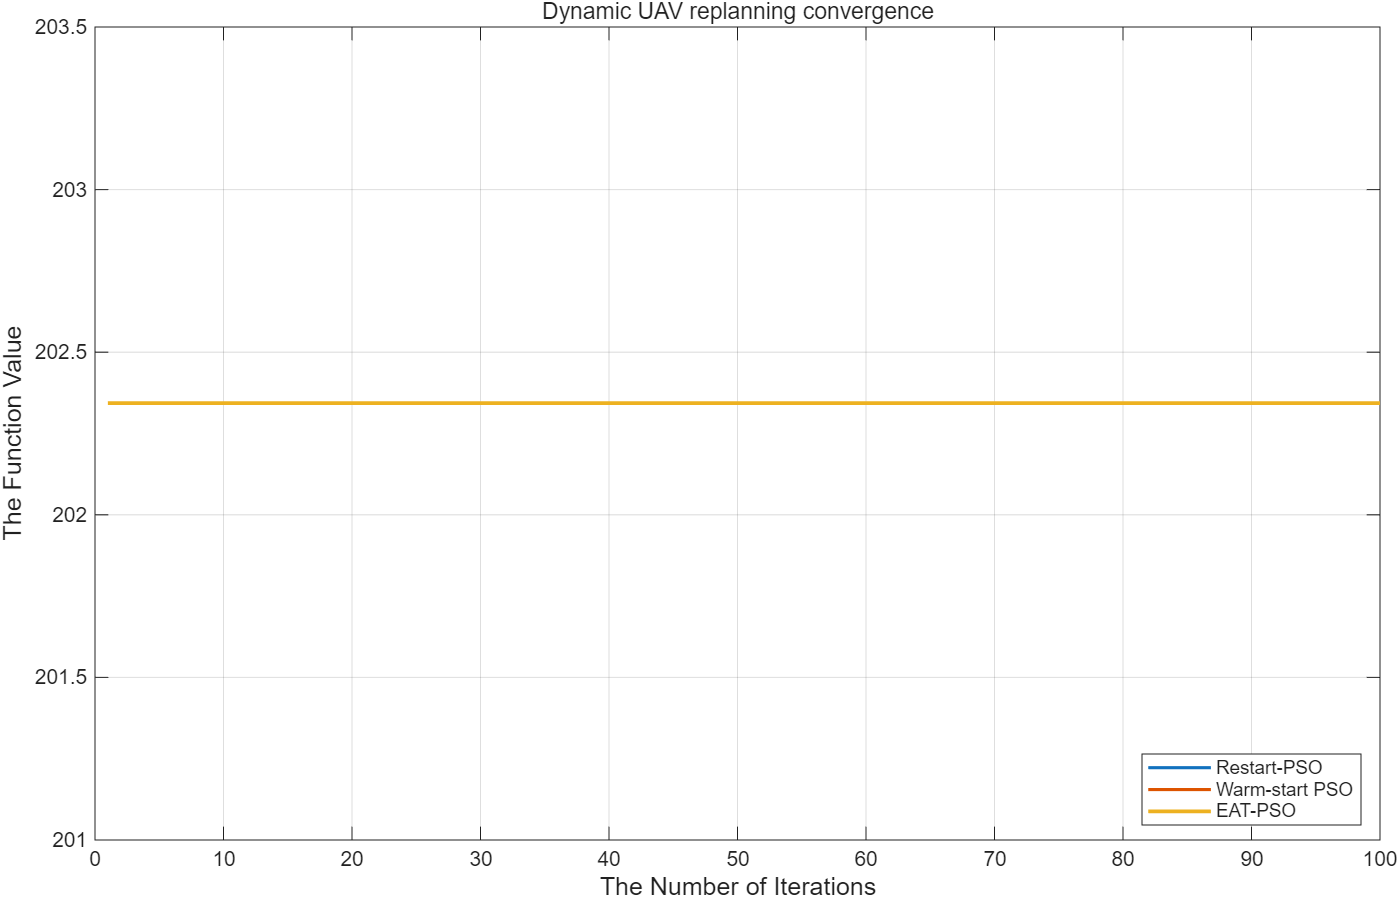
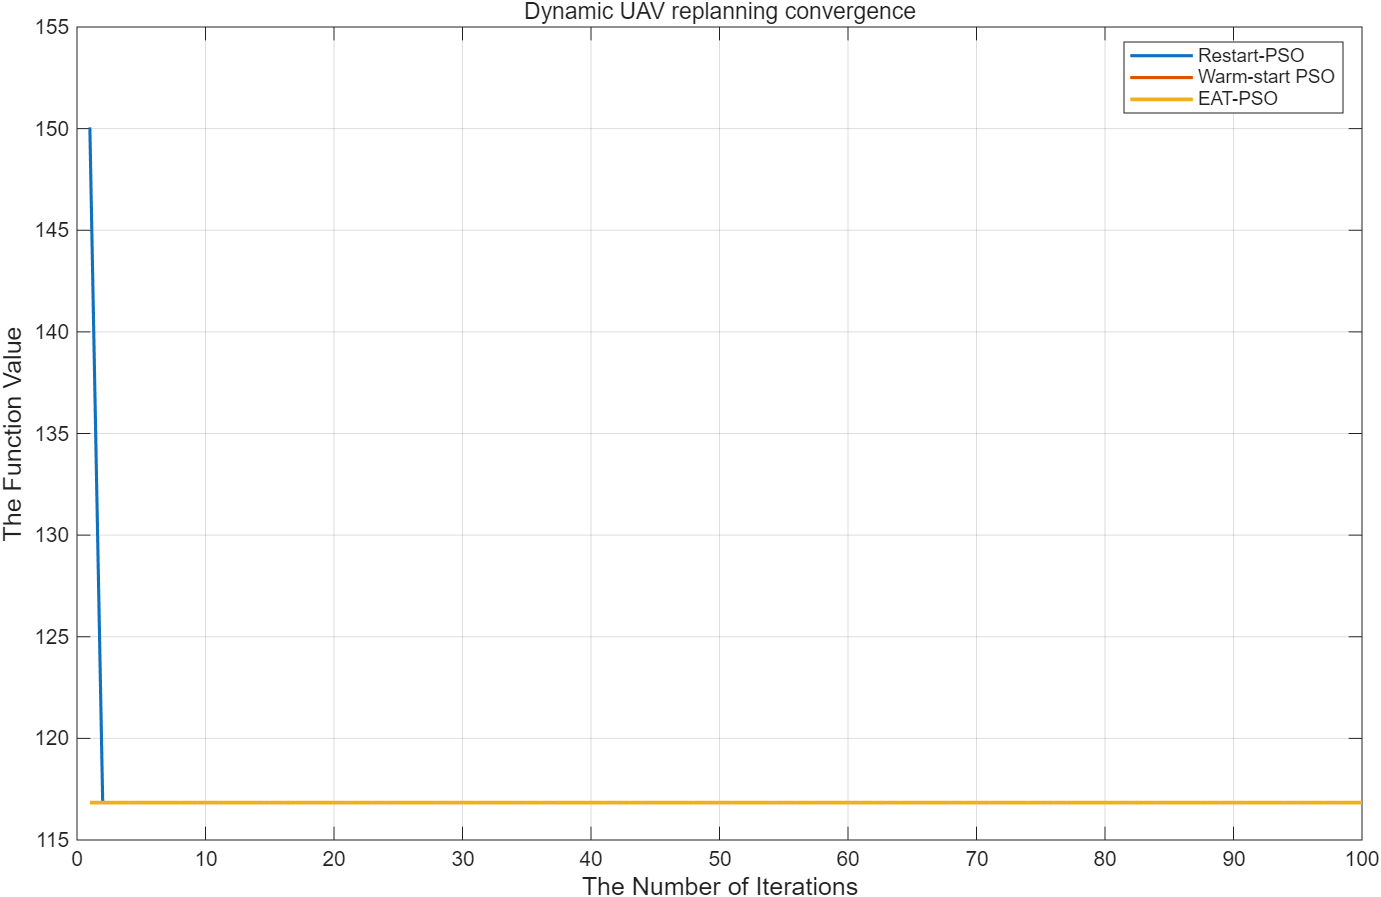
Add cylindrical obstacle path planning

diff --git a/Fitness.m b/Fitness.m
@@ -1,5 +1,5 @@
 function [cost,detail] = Fitness(position,model,state)
-%FITNESS Evaluate a route in the 3-D terrain with time windows.
+%FITNESS Evaluate a complete UAV route.
 
 [~,order] = sort(position);
 route = state.activeIDs(order);
@@ -16,75 +16,51 @@ terrainViolation = 0;
 obstacleViolation = 0;
 allPoints = current;
 records = zeros(length(route),5);
+paths = cell(length(route)+1,1);
 
 for k = 1:length(route)
     id = route(k);
     target = model.orders(id).xyz;
-    [distance,terrainV,obstacleV,points] = LegCost(current,target,model);
-    travelTime = distance/model.speed;
+    path = Plan3DPath(current,target,model);
+    travelTime = path.distance/model.speed;
     arrival = currentTime + travelTime;
     wait = max(0,model.orders(id).ready-arrival);
     serviceStart = arrival + wait;
     late = max(0,serviceStart-model.orders(id).due);
 
-    totalDistance = totalDistance + distance;
+    totalDistance = totalDistance + path.distance;
     totalWaiting = totalWaiting + wait;
     totalLate = totalLate + late;
-    terrainViolation = terrainViolation + terrainV;
-    obstacleViolation = obstacleViolation + obstacleV;
+    terrainViolation = terrainViolation + path.terrainViolation;
+    obstacleViolation = obstacleViolation + path.obstacleViolation;
     records(k,:) = [id arrival serviceStart late wait];
+    paths{k} = path;
 
     currentTime = serviceStart + model.orders(id).service;
     current = target;
-    allPoints = [allPoints; points(2:end,:)]; %#ok<AGROW>
+    allPoints = [allPoints;path.points(2:end,:)]; %#ok<AGROW>
 end
 
-[distance,terrainV,obstacleV,points] = LegCost(current,model.depot,model);
-totalDistance = totalDistance + distance;
-terrainViolation = terrainViolation + terrainV;
-obstacleViolation = obstacleViolation + obstacleV;
-allPoints = [allPoints; points(2:end,:)]; %#ok<AGROW>
+path = Plan3DPath(current,model.depot,model);
+paths{end} = path;
+totalDistance = totalDistance + path.distance;
+terrainViolation = terrainViolation + path.terrainViolation;
+obstacleViolation = obstacleViolation + path.obstacleViolation;
+allPoints = [allPoints;path.points(2:end,:)]; %#ok<AGROW>
 
 cost = totalDistance + 0.05*totalWaiting + 50*totalLate ...
     + 10000*terrainViolation + 10000*obstacleViolation;
 
-routeViolation = terrainViolation + obstacleViolation;
 detail.route = route;
 detail.records = records;
+detail.paths = paths;
+detail.points = allPoints;
 detail.distance = totalDistance;
 detail.totalLate = totalLate;
 detail.totalWaiting = totalWaiting;
 detail.terrainViolation = terrainViolation;
 detail.obstacleViolation = obstacleViolation;
-detail.feasible = routeViolation < 1e-8 && totalLate < 1e-8;
-detail.points = allPoints;
-detail.finishTime = currentTime + distance/model.speed;
+detail.feasible = terrainViolation < 1e-8 ...
+    && obstacleViolation < 1e-8 && totalLate < 1e-8;
+detail.finishTime = currentTime + path.distance/model.speed;
 end
-
-function [distance,terrainViolation,obstacleViolation,points] = LegCost(from,to,model)
-points = [from; to];
-distance = norm(to-from);
-
-% Sample the straight 3-D flight segment.
-t = linspace(0,1,model.safetySamples)';
-samples = from + t.*(to-from);
-ground = interp2(model.X,model.Y,model.terrainZ, ...
-    samples(:,1),samples(:,2),'linear');
-clearance = samples(:,3)-ground;
-terrainViolation = mean(max(0,model.minClearance-clearance));
-
-obstacleViolation = 0;
-for j = 1:length(model.obstacles)
-    obs = model.obstacles(j);
-    inside = samples(:,1)>=obs.xMin-model.obstacleSafety ...
-        & samples(:,1)<=obs.xMax+model.obstacleSafety ...
-        & samples(:,2)>=obs.yMin-model.obstacleSafety ...
-        & samples(:,2)<=obs.yMax+model.obstacleSafety;
-    heightV = max(0,obs.zMax+model.obstacleSafety-samples(:,3));
-    if any(inside)
-        obstacleViolation = obstacleViolation + mean(heightV(inside));
-    end
-end
-end
-
-

diff --git a/Plan3DPath.m b/Plan3DPath.m
@@ -1,0 +1,93 @@
+function path = Plan3DPath(from,to,model)
+%PLAN3DPATH Plan a short safe path between two 3-D points.
+%   Candidates: direct, left-around, right-around and over.
+
+pathList = cell(0,1);
+pathList{end+1} = [from;to];
+
+% Find the first cylinder touched by the direct segment.
+direct = EvaluatePath(pathList{1},model);
+if direct.isFeasible
+    path = direct;
+    path.points = pathList{1};
+    return
+end
+
+obs = model.obstacles(direct.blockedObstacle);
+R = obs.r + model.obstacleSafety + 3;
+move = to(1:2)-from(1:2);
+if norm(move) < eps
+    side = [1 0];
+else
+    side = [-move(2) move(1)]/norm(move);
+end
+
+leftXY = [obs.x obs.y] + R*side;
+rightXY = [obs.x obs.y] - R*side;
+midXY = (from(1:2)+to(1:2))/2;
+overZ = max([from(3),to(3),obs.zMax+model.obstacleSafety+5]);
+
+pathList{end+1} = [from;leftXY max(from(3),to(3));to];
+pathList{end+1} = [from;rightXY max(from(3),to(3));to];
+pathList{end+1} = [from;midXY overZ;to];
+
+best = [];
+bestKey = [inf inf];
+for i = 1:length(pathList)
+    result = EvaluatePath(pathList{i},model);
+    key = [~result.isFeasible result.distance+10000*result.totalViolation];
+    if key(1) < bestKey(1) || ...
+            (key(1) == bestKey(1) && key(2) < bestKey(2))
+        best = result;
+        best.points = pathList{i};
+        bestKey = key;
+    end
+end
+
+path = best;
+end
+
+function result = EvaluatePath(points,model)
+distance = 0;
+terrainViolation = 0;
+obstacleViolation = 0;
+blockedObstacle = 1;
+maxObstacleViolation = 0;
+
+for i = 1:size(points,1)-1
+    from = points(i,:);
+    to = points(i+1,:);
+    distance = distance + norm(to-from);
+    t = linspace(0,1,model.safetySamples)';
+    samples = from + t.*(to-from);
+
+    ground = interp2(model.X,model.Y,model.terrainZ, ...
+        samples(:,1),samples(:,2),'linear');
+    terrainV = max(0,model.minClearance-(samples(:,3)-ground));
+    terrainViolation = terrainViolation + mean(terrainV);
+
+    for j = 1:length(model.obstacles)
+        obs = model.obstacles(j);
+        dx = samples(:,1)-obs.x;
+        dy = samples(:,2)-obs.y;
+        insideXY = sqrt(dx.^2+dy.^2) <= obs.r+model.obstacleSafety;
+        insideZ = samples(:,3) >= obs.zMin-model.obstacleSafety ...
+            & samples(:,3) <= obs.zMax+model.obstacleSafety;
+        inside = insideXY & insideZ;
+        amount = max(0,obs.zMax+model.obstacleSafety-samples(:,3));
+        value = sum(amount(inside));
+        obstacleViolation = obstacleViolation + value;
+        if value > maxObstacleViolation
+            maxObstacleViolation = value;
+            blockedObstacle = j;
+        end
+    end
+end
+
+result.distance = distance;
+result.terrainViolation = terrainViolation;
+result.obstacleViolation = obstacleViolation;
+result.totalViolation = terrainViolation + obstacleViolation;
+result.isFeasible = result.totalViolation < 1e-8;
+result.blockedObstacle = blockedObstacle;
+end

diff --git a/CreateModel.m b/CreateModel.m
@@ -1,6 +1,6 @@
 function model = CreateModel(cfg)
 %CREATEMODEL Create a simple 3-D UAV delivery model.
-%   The model contains terrain, buildings, orders, time windows and events.
+%   The model contains terrain, cylindrical buildings, orders and events.
 
 if nargin == 0
     cfg = struct();
@@ -26,13 +26,13 @@ y = linspace(0,cfg.mapSize(2),41);
 model.terrainZ = 5 + 5*sin(model.X/16).*cos(model.Y/19) ...
     + 2*cos(model.X/9 + model.Y/14);
 
-model.cruiseHeight = max(model.terrainZ(:)) + 22;
+model.cruiseHeight = max(model.terrainZ(:)) + 10;
 model.depot = [10 10 model.cruiseHeight];
 
-%% Static box obstacles
-model.obstacles(1) = struct('xMin',30,'xMax',45,'yMin',25,'yMax',42,'zMin',0,'zMax',25);
-model.obstacles(2) = struct('xMin',58,'xMax',75,'yMin',55,'yMax',72,'zMin',0,'zMax',30);
-model.obstacles(3) = struct('xMin',25,'xMax',38,'yMin',70,'yMax',88,'zMin',0,'zMax',22);
+%% Cylindrical buildings
+model.obstacles(1) = struct('x',38,'y',34,'r',8,'zMin',0,'zMax',25);
+model.obstacles(2) = struct('x',66,'y',64,'r',9,'zMin',0,'zMax',30);
+model.obstacles(3) = struct('x',31,'y',79,'r',7,'zMin',0,'zMax',22);
 
 %% Orders
 n = cfg.nInitialOrders + cfg.nFutureOrders;
@@ -40,10 +40,12 @@ orders = repmat(struct('id',0,'xyz',zeros(1,3),'release',0, ...
     'ready',0,'due',0,'service',model.serviceTime,'status','future'),1,n);
 
 for i = 1:n
-    xy = [15 + 70*rand, 15 + 70*rand];
-    z = model.cruiseHeight;
+    xy = [15 + 70*rand,15 + 70*rand];
+    while InAnyObstacle(xy,model)
+        xy = [15 + 70*rand,15 + 70*rand];
+    end
     orders(i).id = i;
-    orders(i).xyz = [xy z];
+    orders(i).xyz = [xy model.cruiseHeight];
     orders(i).service = model.serviceTime;
     orders(i).ready = 0;
     orders(i).release = 0;
@@ -55,7 +57,6 @@ for i = 1:cfg.nInitialOrders
     orders(i).status = 'active';
 end
 
-% Future orders arrive in two batches.
 for i = cfg.nInitialOrders+1:n
     orders(i).release = 35 + 20*mod(i-cfg.nInitialOrders-1,2);
     orders(i).ready = orders(i).release;
@@ -71,4 +72,16 @@ model.futureIDs = cfg.nInitialOrders+1:n;
 model.events(1) = struct('time',35,'type','add','orderIDs',cfg.nInitialOrders+1);
 model.events(2) = struct('time',70,'type','cancel','orderIDs',3);
 model.events(3) = struct('time',85,'type','add','orderIDs',cfg.nInitialOrders+2);
+end
+
+function yes = InAnyObstacle(xy,model)
+yes = false;
+for i = 1:length(model.obstacles)
+    obs = model.obstacles(i);
+    distance = norm(xy-[obs.x obs.y]);
+    if distance <= obs.r + model.obstacleSafety + 2
+        yes = true;
+        return
+    end
+end
 end

diff --git a/PlotSolution.m b/PlotSolution.m
@@ -1,9 +1,10 @@
 function PlotSolution(BestSol,model,state,filePath)
-%PLOTSOLUTION Plot a 3-D UAV route, terrain and buildings.
+%PLOTSOLUTION Plot the terrain, cylindrical buildings and UAV route.
 
 [~,detail] = Fitness(BestSol.Position,model,state);
 figure('Color','w');
-surf(model.X,model.Y,model.terrainZ,'EdgeColor','none','FaceAlpha',0.65);
+surf(model.X,model.Y,model.terrainZ, ...
+    'EdgeColor','none','FaceAlpha',0.65,'DisplayName','Terrain');
 hold on
 colormap parula
 axis equal
@@ -12,24 +13,35 @@ xlabel('X'); ylabel('Y'); zlabel('Z');
 title('3-D UAV delivery route');
 
 for i = 1:length(model.obstacles)
-    o = model.obstacles(i);
-    x = [o.xMin o.xMax o.xMax o.xMin];
-    y = [o.yMin o.yMin o.yMax o.yMax];
-    fill3(x,y,o.zMax*ones(1,4),[0.75 0.25 0.25],'FaceAlpha',0.55);
+    obs = model.obstacles(i);
+    [X,Y,Z] = cylinder(obs.r,30);
+    X = X + obs.x;
+    Y = Y + obs.y;
+    Z = obs.zMin + Z*(obs.zMax-obs.zMin);
+    if i == 1
+        displayName = 'Cylindrical obstacle';
+    else
+        displayName = '';
+    end
+    surf(X,Y,Z,'FaceColor',[0.75 0.25 0.25], ...
+        'FaceAlpha',0.55,'EdgeColor','none', ...
+        'DisplayName',displayName);
 end
 
 plot3(detail.points(:,1),detail.points(:,2),detail.points(:,3), ...
-    'b-o','LineWidth',2,'MarkerSize',3,'MarkerFaceColor','w');
+    'b-o','LineWidth',2,'MarkerSize',3,'MarkerFaceColor','w', ...
+    'DisplayName','UAV route');
 plot3(model.depot(1),model.depot(2),model.depot(3), ...
-    'ks','MarkerSize',10,'MarkerFaceColor','k');
+    'ks','MarkerSize',10,'MarkerFaceColor','k','DisplayName','Depot');
 
 for i = 1:length(state.activeIDs)
     id = state.activeIDs(i);
     p = model.orders(id).xyz;
-    plot3(p(1),p(2),p(3),'ko','MarkerFaceColor','y','MarkerSize',6);
+    plot3(p(1),p(2),p(3),'ko','MarkerFaceColor','y','MarkerSize',6, ...
+        'HandleVisibility','off');
     text(p(1)+1,p(2)+1,p(3)+1,sprintf('C%d',id));
 end
 
-legend('Terrain','Building','Route','Depot','Active order','Location','best');
+legend('Location','best');
 exportgraphics(gcf,filePath,'Resolution',150);
 end

diff --git a/README_CN.md b/README_CN.md
@@ -5,7 +5,7 @@
 ## 研究路线
 
 1. **单目标二维底座**：客户访问顺序由 Random-key PSO 优化，时间窗通过评价函数处理。
-2. **三维无人机验证**：加入三维地形、箱体建筑、飞行距离和安全高度约束。
+2. **三维无人机验证**：加入三维地形、圆柱体建筑、飞行距离和安全高度约束。
 3. **动态订单**：加入新增订单和取消订单，在事件发生后重新规划。
 4. **算法论文主线**：对比 Restart-PSO、Warm-start PSO 和 EAT-PSO；EAT-PSO 用历史路线、事件新增订单插入路线和随机个体重构种群。
 
@@ -22,6 +22,7 @@ CreateModel.m   生成地形、障碍物、订单和事件
 Fitness.m       统一评价函数
 DynamicEvent.m  应用新增/取消订单
 ExecuteUntilEvent.m  执行旧路线到事件时刻
+Plan3DPath.m   生成直线、左右绕行和上方绕行候选航迹
 PlotSolution.m  绘制三维路线
 ```
 
